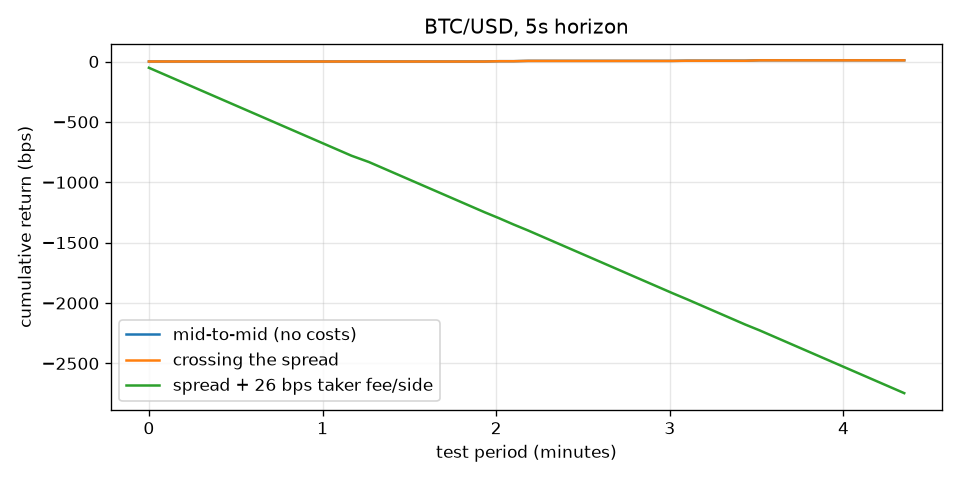
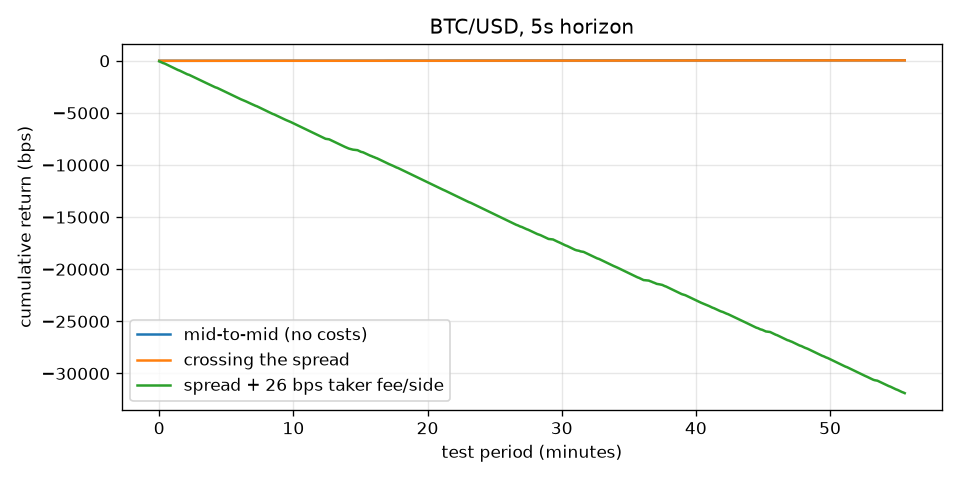
Add embargoed walk-forward and feature attribution; report 5.5h results

diff --git a/models.py b/models.py
@@ -31,6 +31,13 @@ def make_models():
     }
 
 
+FEATURE_GROUPS = {
+    "book (imbalance+spread+ofi)": ["spread_bps", "imb1", "imb5", "imb10", "ofi"],
+    "imb1 alone": ["imb1"],
+    "ret_1s alone (momentum)": ["ret_1s"],
+}
+
+
 def direction_dataset(df: pd.DataFrame, horizon: int):
     """X, y for 'given the mid moves in the next h seconds, which way?'"""
     target = f"fwd_ret_{horizon}s"
@@ -39,7 +46,27 @@ def direction_dataset(df: pd.DataFrame, horizon: int):
     return data[FEATURES].to_numpy(), (data[target] > 0).to_numpy()
 
 
-def evaluate(df: pd.DataFrame, symbol: str, n_splits: int) -> list[dict]:
+def attribution(df: pd.DataFrame, symbol: str, horizon: int, embargo: int) -> None:
+    """Which features carry the signal? Guards against a momentum artifact:
+    if book imbalance drives AUC and the last return alone does not, the signal
+    is genuine microstructure, not autocorrelation."""
+    X, y = direction_dataset(df, horizon)
+    splitter = TimeSeriesSplit(5, gap=embargo)
+    print(f"{symbol} {horizon}s feature attribution:")
+    for label, feats in FEATURE_GROUPS.items():
+        cols = [FEATURES.index(f) for f in feats]
+        aucs = []
+        for tr, te in splitter.split(X):
+            if len(np.unique(y[te])) < 2:
+                continue
+            model = make_pipeline(StandardScaler(), LogisticRegression(max_iter=1000))
+            model.fit(X[tr][:, cols], y[tr])
+            aucs.append(roc_auc_score(y[te], model.predict_proba(X[te][:, cols])[:, 1]))
+        if aucs:
+            print(f"  {label:30s} AUC {np.mean(aucs):.3f}")
+
+
+def evaluate(df: pd.DataFrame, symbol: str, n_splits: int, embargo: int) -> list[dict]:
     results = []
     for horizon in HORIZONS:
         X, y = direction_dataset(df, horizon)
@@ -47,9 +74,10 @@ def evaluate(df: pd.DataFrame, symbol: str, n_splits: int) -> list[dict]:
             print(f"{symbol} {horizon}s: only {len(y)} samples, skipping")
             continue
         print(f"{symbol} {horizon}s: n={len(y):,}, base rate {y.mean():.1%} up")
+        splitter = TimeSeriesSplit(n_splits, gap=embargo)
         for name, model in make_models().items():
             aucs, accs = [], []
-            for train_idx, test_idx in TimeSeriesSplit(n_splits).split(X):
+            for train_idx, test_idx in splitter.split(X):
                 if len(np.unique(y[test_idx])) < 2:
                     continue  # degenerate fold, AUC undefined
                 model.fit(X[train_idx], y[train_idx])
@@ -70,6 +98,8 @@ def main() -> None:
     parser = argparse.ArgumentParser(description=__doc__)
     parser.add_argument("features", nargs="*", type=Path)
     parser.add_argument("--splits", type=int, default=5)
+    parser.add_argument("--embargo", type=int, default=30,
+                        help="bars purged between train and test to prevent adjacency leakage")
     parser.add_argument("--out-dir", type=Path, default=Path("results"))
     args = parser.parse_args()
     paths = args.features or sorted(Path("data").glob("features-*.csv"))
@@ -78,7 +108,8 @@ def main() -> None:
     for path in paths:
         symbol = path.stem.removeprefix("features-").replace("-", "/", 1)
         df = pd.read_csv(path, index_col="ts")
-        all_results += evaluate(df, symbol, args.splits)
+        all_results += evaluate(df, symbol, args.splits, args.embargo)
+        attribution(df, symbol, 5, args.embargo)
 
     args.out_dir.mkdir(exist_ok=True)
     pd.DataFrame(all_results).to_csv(args.out_dir / "metrics.csv", index=False)

diff --git a/README.md b/README.md
@@ -32,24 +32,54 @@ deltas, truncation errors, and float drift (prices are handled as `Decimal`).
 - **No lookahead.** Bar *t* contains only events with timestamps in
   [t, t+1); its features use the book state as of the last event in the bar.
   Labels are forward log mid returns measured from bar close to bar close.
-- **Chronological validation only.** `TimeSeriesSplit` — train on the past,
-  test on the future. Shuffled CV on autocorrelated series leaks.
+- **Chronological validation with an embargo.** `TimeSeriesSplit` trains on
+  the past and tests on the future; a 30-bar `gap` is purged between the two
+  so the model is never scored on rows adjacent to its training data.
+  Shuffled CV on an autocorrelated series leaks both ways.
 - **Direction, not magnitude.** The label is the sign of the forward mid
   move, flat bars dropped; AUC is compared against the 0.5 no-skill baseline.
+- **Attribution guards against a momentum artifact.** `models.py` reports AUC
+  for feature subsets: if the last return alone predicted direction, the
+  "signal" would just be autocorrelation. It doesn't — see below.
 
 ## Results
 
-Results below are from the current recording session; tables regenerate with
-`python models.py && python backtest.py` as more data accumulates
-(see `results/metrics.csv` and `results/*.png`).
+Numbers below are from a ~5.5-hour session (≈30k one-second bars per symbol);
+everything regenerates with `python models.py && python backtest.py` as the
+recorder accumulates more data.
 
-The consistent picture from the three-way backtest: a real predictive signal
-exists at short horizons (AUC meaningfully above 0.5, positive mid-to-mid
-PnL), it roughly breaks even against the spread, and taker fees (26 bps/side
-on Kraken's base tier) eliminate it entirely. That asymmetry is the point:
-short-horizon alpha of this kind is only harvestable by market makers who
-earn the spread instead of paying it — which is exactly why speed and queue
-position matter in real markets.
+**Direction prediction** (5s horizon, embargoed walk-forward, logistic):
+
+| symbol | AUC | book features only | imb1 alone | last return alone |
+|---|---|---|---|---|
+| BTC/USD | 0.93 | 0.94 | 0.95 | 0.51 |
+| ETH/USD | 0.64 | 0.64 | 0.64 | 0.53 |
+
+Two things to read here. First, the signal is **order-book imbalance**, not
+momentum: `imb1` alone reproduces nearly the full AUC while the last return
+alone is barely above 0.5. Second, BTC scores far higher than ETH because of
+**tick size** — BTC/USD moves in $0.10 ticks on a ~$64k price, so the mid only
+changes when a best level clears, and best-level imbalance mechanically
+telegraphs which side is about to clear. ETH's finer relative tick makes the
+relationship noisier and the AUC closer to the values reported in the
+microstructure literature.
+
+**But is it tradeable?** The three-way backtest (threshold 0.6, ~600 trades):
+
+| scenario | BTC avg/trade | ETH avg/trade |
+|---|---|---|
+| mid-to-mid (no cost) | +0.09 bps | +0.13 bps |
+| crossing the spread | +0.07 bps | −0.05 bps |
+| + 26 bps taker fee/side | −51.9 bps | −52.0 bps |
+
+The high AUC and the tiny per-trade edge are consistent, and reconciling them
+is the whole point: imbalance predicts *direction* well, but the predicted
+move is a fraction of a basis point (often a single tick, and most 5s windows
+don't move at all). A retail taker pays ~52 bps round trip to capture ~0.1 bp.
+**The signal is real and nearly mechanical; the profit is not.** Short-horizon
+edge of this kind is only harvestable by market makers who *earn* the spread
+instead of paying it — which is exactly why latency and queue position matter
+in real markets.
 
 ## Run it
 
@@ -58,7 +88,7 @@ pip install -r requirements.txt
 python recorder.py                    # leave running; ~sub-GB per day
 python book.py                        # replay + validate every checksum
 python features.py                    # build 1s bars -> data/features-*.csv
-python models.py                      # walk-forward AUC/accuracy table
+python models.py                      # embargoed walk-forward + feature attribution
 python backtest.py --horizon 5        # cost-aware PnL + equity curves
 pytest                                # book engine + feature unit tests
 ```